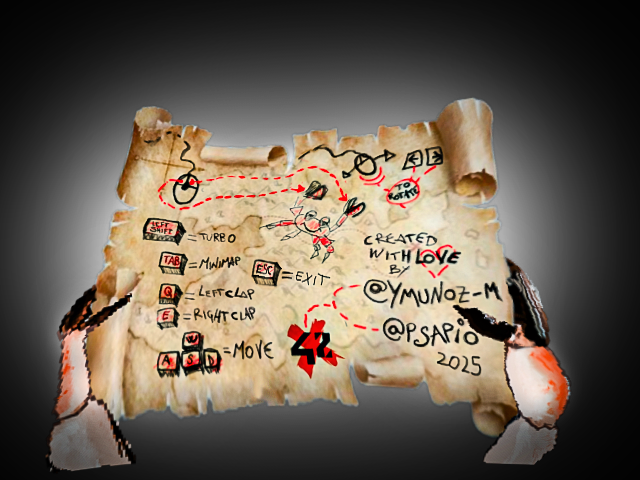
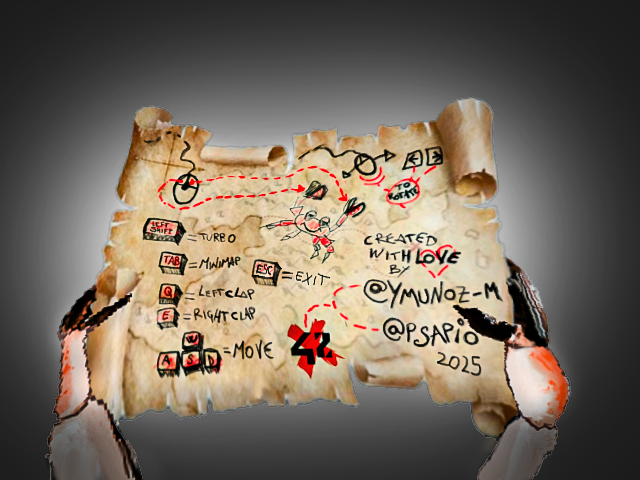
en camera.c he creado una funcion para girar el cangro en el minimapa

diff --git a/SRCS/INIT_GAME/init_texture.c b/SRCS/INIT_GAME/init_texture.c
@@ -80,13 +80,25 @@ void	init_frame_textures(mlx_t *mlx, t_images *imgs)
 	imgs->frame[5] = load_n_check_image(mlx, imgs, "PNG/frame/5.png");
 }
 
+//void	init_map_greco(mlx_t *mlx, t_images *imgs)
+//{
+//	imgs->array_greco[0] = load_n_check_image(mlx, imgs, "PNG/greco/0.png");
+//	imgs->array_greco[1] = load_n_check_image(mlx, imgs, "PNG/greco/1.png");
+//	imgs->array_greco[2] = load_n_check_image(mlx, imgs, "PNG/greco/2.png");
+//	imgs->array_greco[3] = load_n_check_image(mlx, imgs, "PNG/greco/3.png");
+//	imgs->array_greco[4] = load_n_check_image(mlx, imgs, "PNG/greco/4.png");
+//	imgs->array_greco[5] = load_n_check_image(mlx, imgs, "PNG/greco/5.png");
+//	imgs->array_greco[6] = load_n_check_image(mlx, imgs, "PNG/greco/6.png");
+//	imgs->array_greco[7] = load_n_check_image(mlx, imgs, "PNG/greco/7.png");
+//}
+
 void	init_texture(mlx_t *mlx, t_images *imgs, t_parser_map *parser_map)
 {
 	imgs->mirilla = load_n_check_image(mlx, imgs, "PNG/mirilla.png");
 	imgs->greco_texture = load_n_check_texture(mlx, imgs, "PNG/greco.png");
 	mlx_set_icon(mlx, imgs->greco_texture);
 	mlx_delete_texture(imgs->greco_texture);
-	imgs->map_greco = load_n_check_image(mlx, imgs, "PNG/greco.png");
+	init_frame_textures(mlx, imgs);
 	imgs->map_sand = load_n_check_image(mlx, imgs, "PNG/map_sand.png");
 	imgs->map_rock = load_n_check_image(mlx, imgs, "PNG/map_rock.png");
 	imgs->kelas_open = load_n_check_image(mlx, imgs, "PNG/kelas_open.png");
@@ -95,7 +107,8 @@ void	init_texture(mlx_t *mlx, t_images *imgs, t_parser_map *parser_map)
 	imgs->kelas_dx = load_n_check_image(mlx, imgs, "PNG/kelas_dx.png");
 	imgs->kelas_up[0] = load_n_check_image(mlx, imgs, "PNG/kelas_up0.png");
 	imgs->kelas_up[1] = load_n_check_image(mlx, imgs, "PNG/kelas_up1.png");
-	init_frame_textures(mlx, imgs);
+	imgs->map_greco = load_n_check_image(mlx, imgs, "PNG/greco.png");
+
 	imgs->map_texture_N = load_n_check_texture(mlx, imgs, parser_map->path_s);
 	imgs->map_texture_S = load_n_check_texture(mlx, imgs, parser_map->path_n);
 	imgs->map_texture_E = load_n_check_texture(mlx, imgs, parser_map->path_w);

diff --git a/SRCS/RENDER/camera.c b/SRCS/RENDER/camera.c
@@ -34,12 +34,20 @@ void	init_struct_camera(t_camera *c, t_coor player_coor,
 	c->x_pos_in_screen = x_pos_in_screen_aux;
 }
 
+
+void	cangro_map_rotation(t_game	*game, float player_v_angle)
+{
+	if (player_v_angle)
+	printf("player_v_angle%f\n", player_v_angle);
+}
+
 void	init_camera(t_game *game, t_coor player_coor, float player_v_angle)
 {
 	const float	x_pos_in_screen_aux = (float)(SCREEN * game->tile_size) / WIDTH;
 	t_camera	c;
 
 	init_struct_camera(&c, player_coor, x_pos_in_screen_aux, player_v_angle);
+	cangro_map_rotation(game, player_v_angle);
 	while (c.x_pos_in_screen < WIDTH)
 	{
 		c.ray = raycasting(game->player.pos, c.l_screen_point, game->map);

diff --git a/SRCS/INIT_GAME/init_images.c b/SRCS/INIT_GAME/init_images.c
@@ -59,6 +59,7 @@ void	init_images(mlx_t *mlx, t_map *map, t_images *imgs, t_parser_map *p_map)
 	imgs->map_ray = create_empty_img(mlx, map->longest_line * map->tile_size,
 			map->map_len * map->tile_size);
 	imgs->map_ray->enabled = false;
+	
 	imgs->map_greco->enabled = false;
 	imgs->map_rock->enabled = false;
 	imgs->map_sand->enabled = false;

diff --git a/SRCS/MOVEMENTS/movements_player.c b/SRCS/MOVEMENTS/movements_player.c
@@ -71,6 +71,8 @@ void	movements_player(void *params)
 		change_player_rotation(&game->player, game->player.vision_angle - 1);
 		clean_game_images(&game->images);
 		init_camera(game, game->player.pos, game->player.vision_angle);
+
+	
 	}
 	if (game->player.movements.key_right_is_down == true)
 	{

diff --git a/INC/t_images.h b/INC/t_images.h
@@ -12,6 +12,7 @@ typedef struct	s_images
 	mlx_image_t		*mirilla;
 	mlx_image_t		*background_map;
 	mlx_image_t		*map_ray;
+	//mlx_image_t		*array_greco[8];
 	mlx_image_t		*map_greco;
 	mlx_image_t		*map_sand;
 	mlx_image_t		*map_rock;

diff --git a/SRCS/INPUT_KEYS/mouse_input.c b/SRCS/INPUT_KEYS/mouse_input.c
@@ -76,6 +76,5 @@ void	mouse_buttons(mouse_key_t button,
 		game->player.movements.key_mouse_right_down = false;
 		game->player.movements.key_mouse_left_down = false;
 	}
-	printf("button: %d\n", button);
 	kelas_movement(game);
 }
